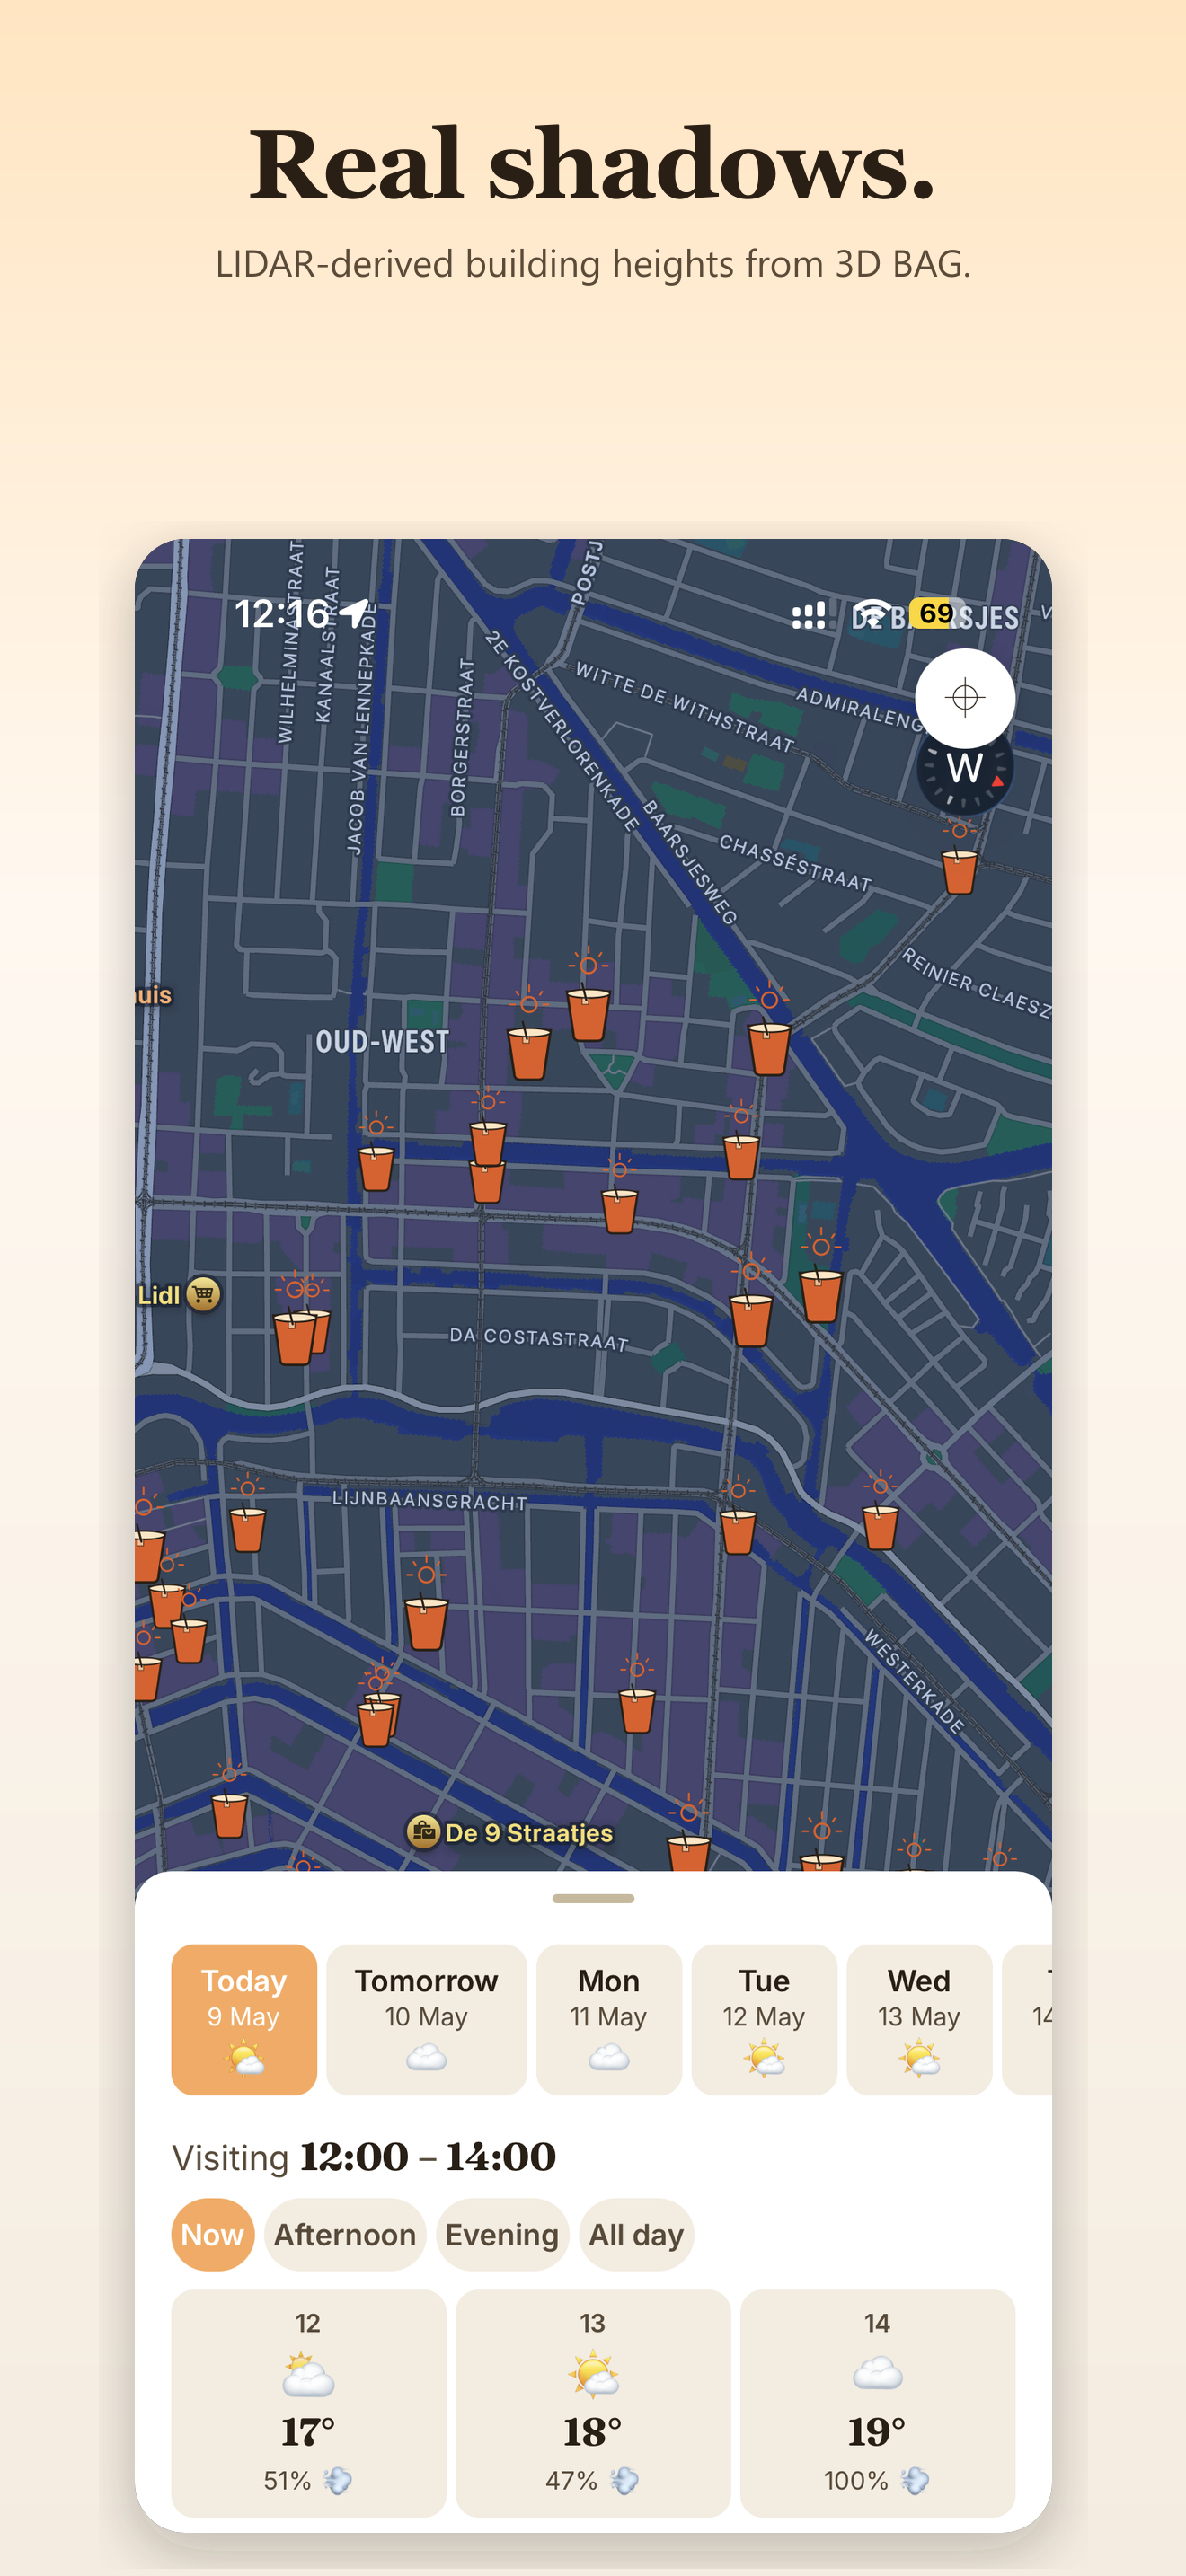
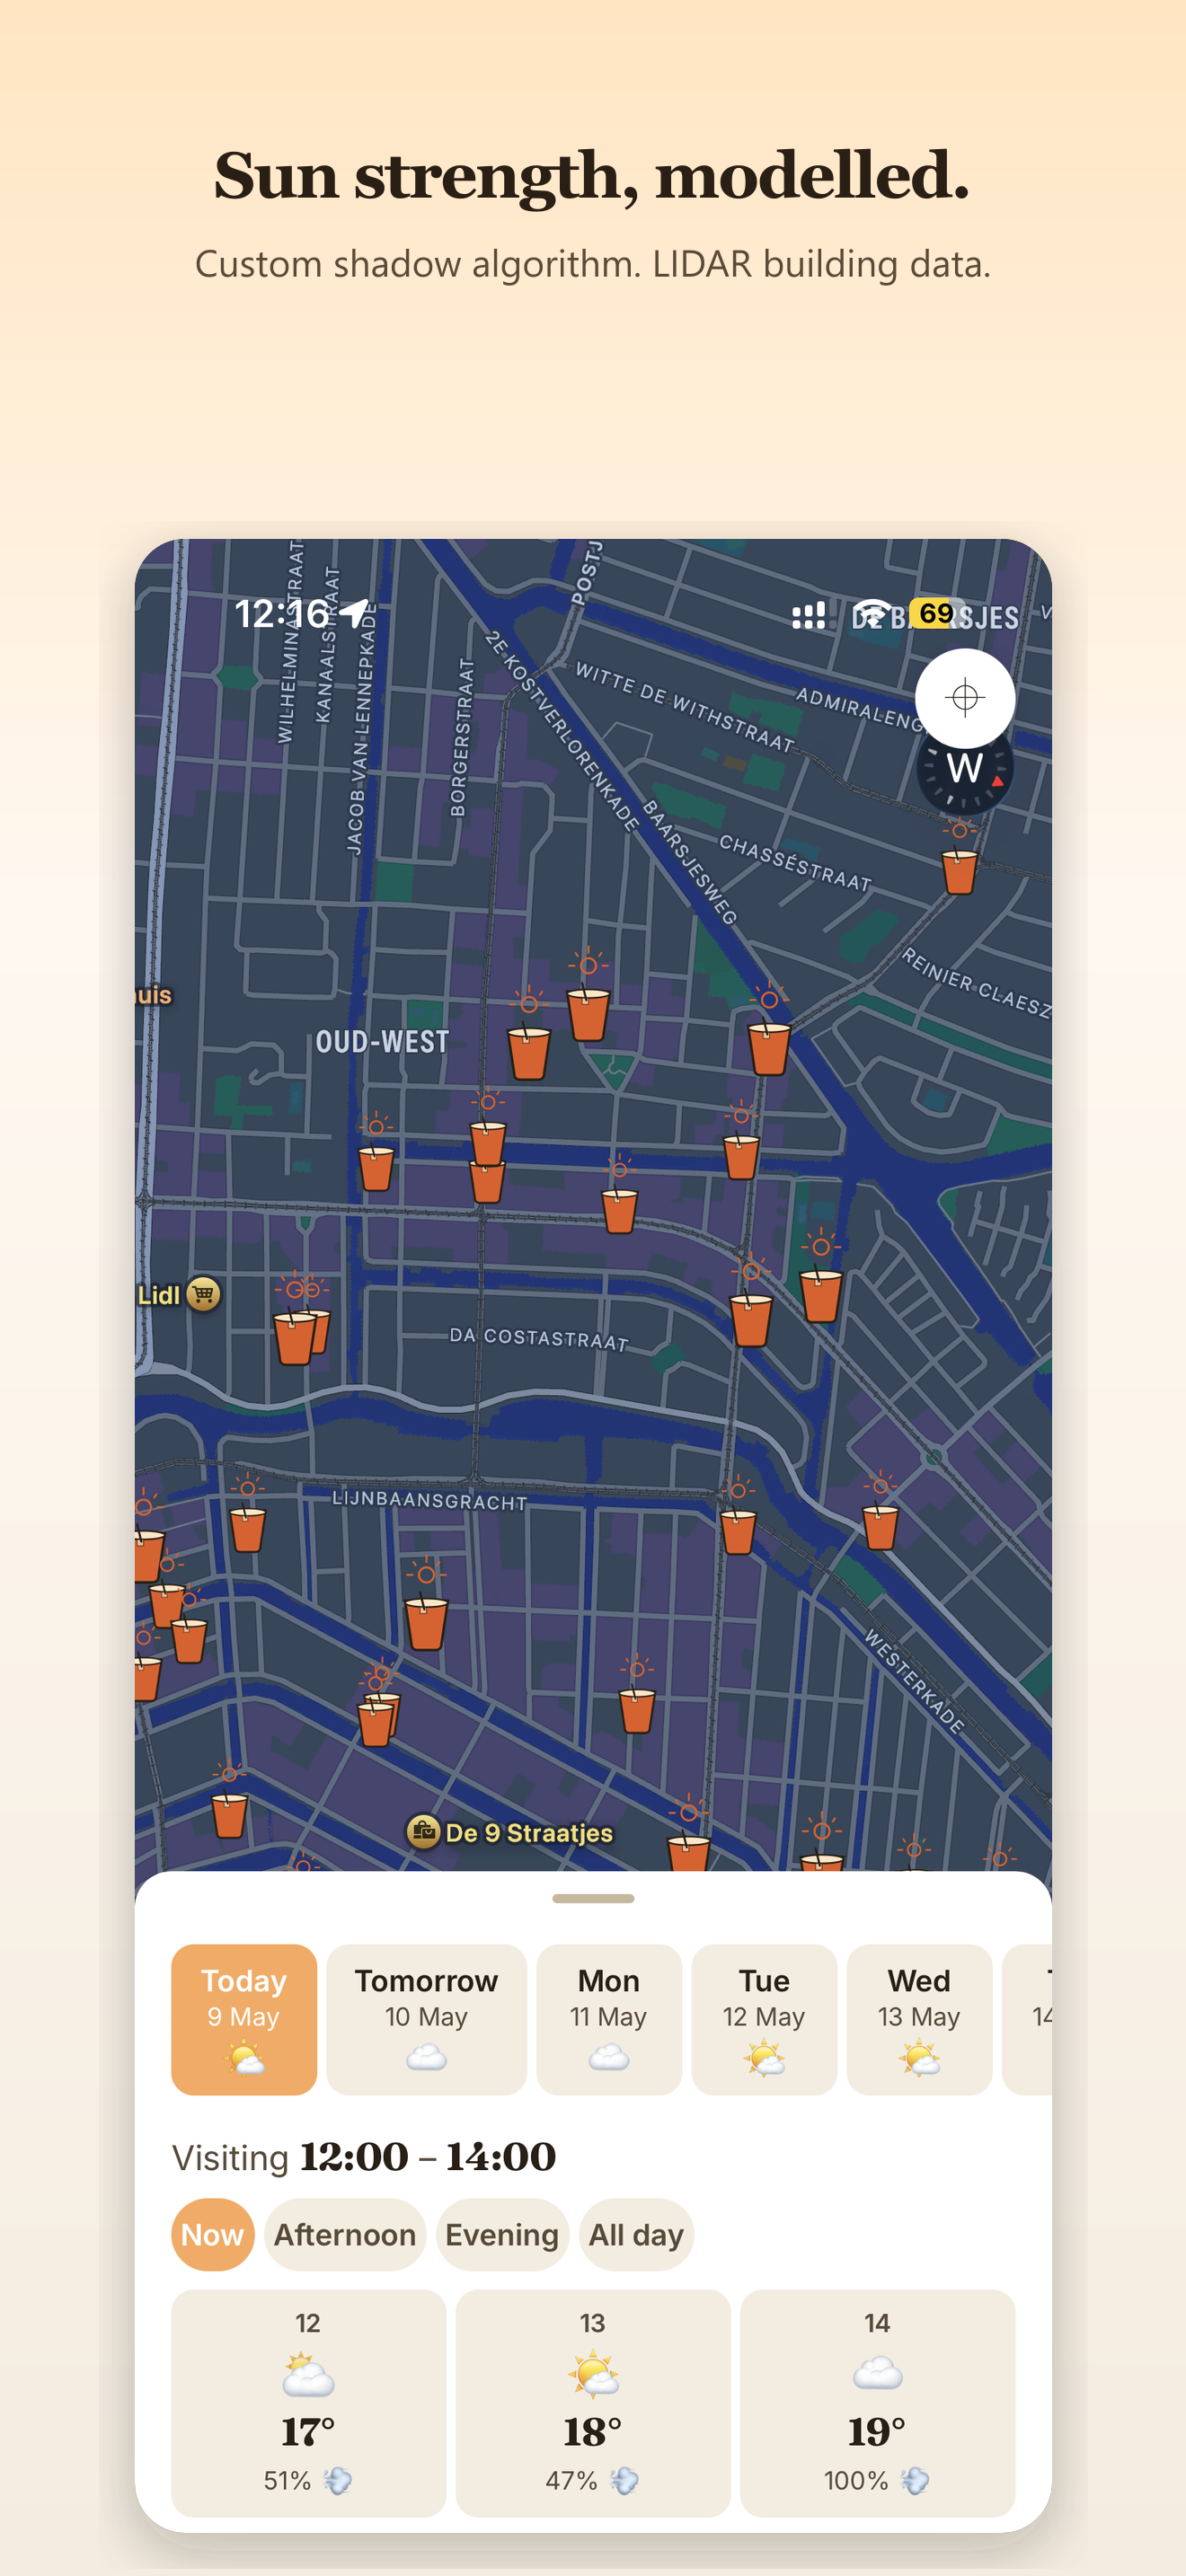
Marketing 02-map: lead with sun-strength claim, not LIDAR jargon
"Real shadows. / LIDAR-derived building heights from 3D BAG." was
too data-pipeline-y for a store screenshot — buyers want to know
*what they get*, not what powers it. Reframed:

  Sun strength, modelled.
  Custom shadow algorithm. LIDAR building data.

Headline leads with the user-facing benefit (sun strength) and
positions modelling as the differentiator. Subhead keeps the
proprietary-algorithm + LIDAR source as supporting evidence.

Changed region(s): [[0.1864, 0.031, 0.8076, 0.1241]]

diff --git a/scripts/compose-screenshots.ts b/scripts/compose-screenshots.ts
@@ -69,8 +69,8 @@ const SHOTS: ShotSpec[] = [
   {
     source: 'IMG_2791.PNG',
     out: '02-map.png',
-    headline: 'Real shadows.',
-    subhead: 'LIDAR-derived building heights from 3D BAG.',
+    headline: 'Sun strength, modelled.',
+    subhead: 'Custom shadow algorithm. LIDAR building data.',
   },
   {
     source: 'IMG_2792.PNG',